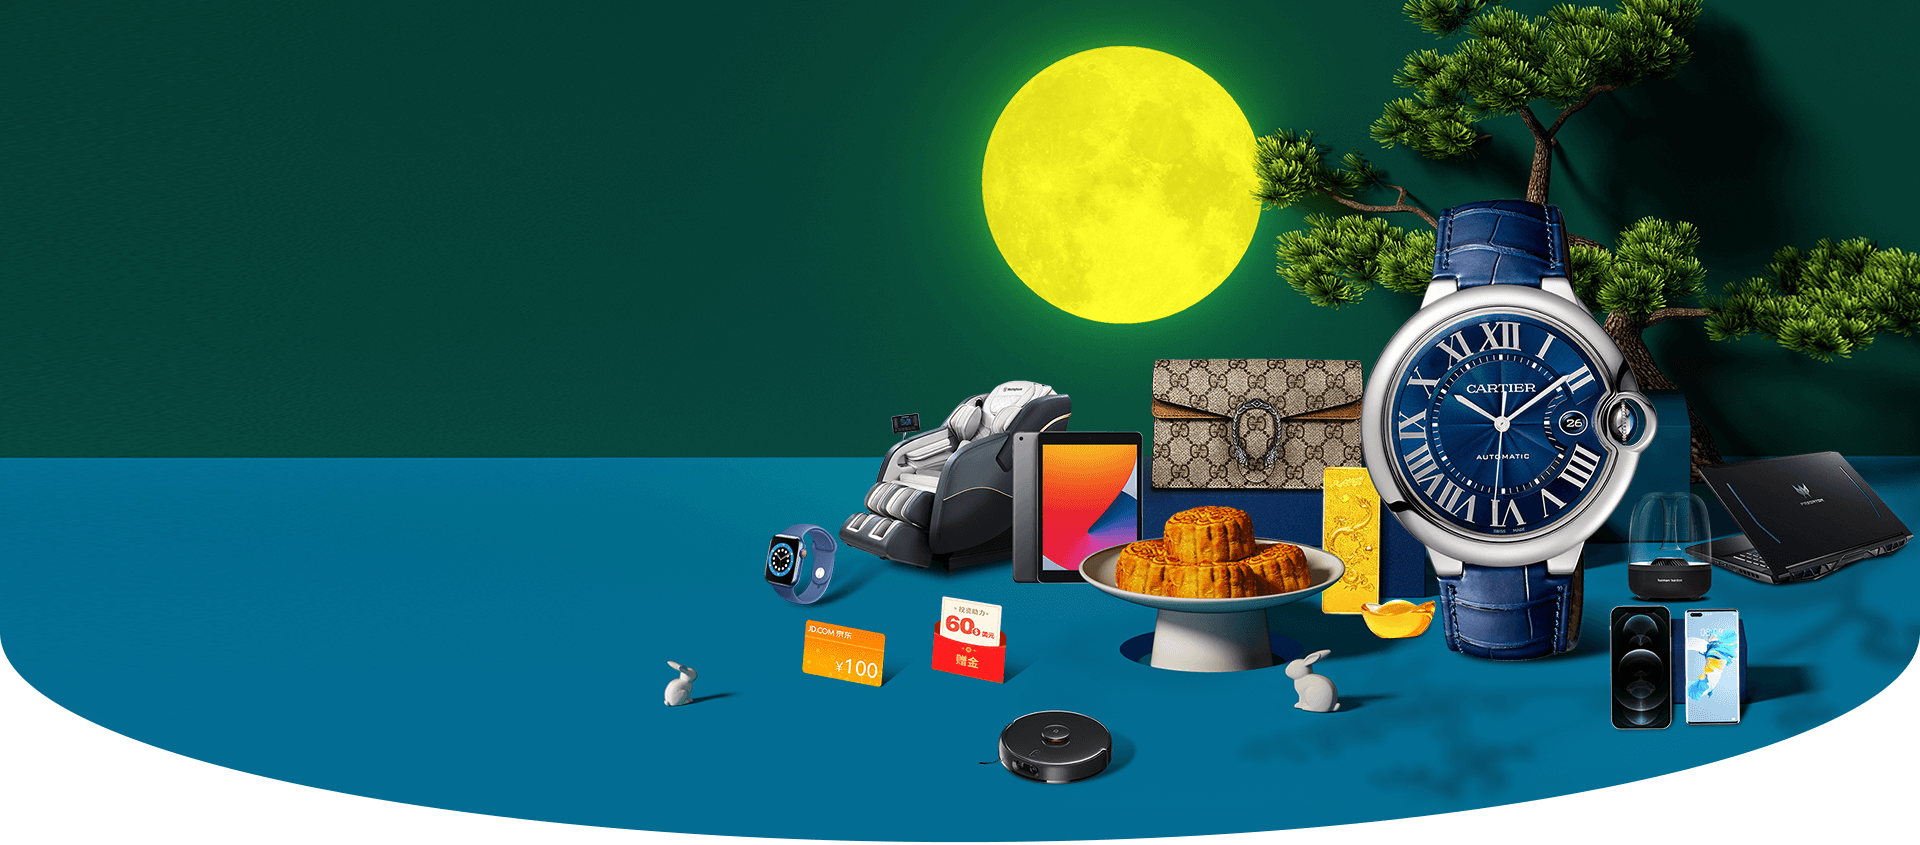
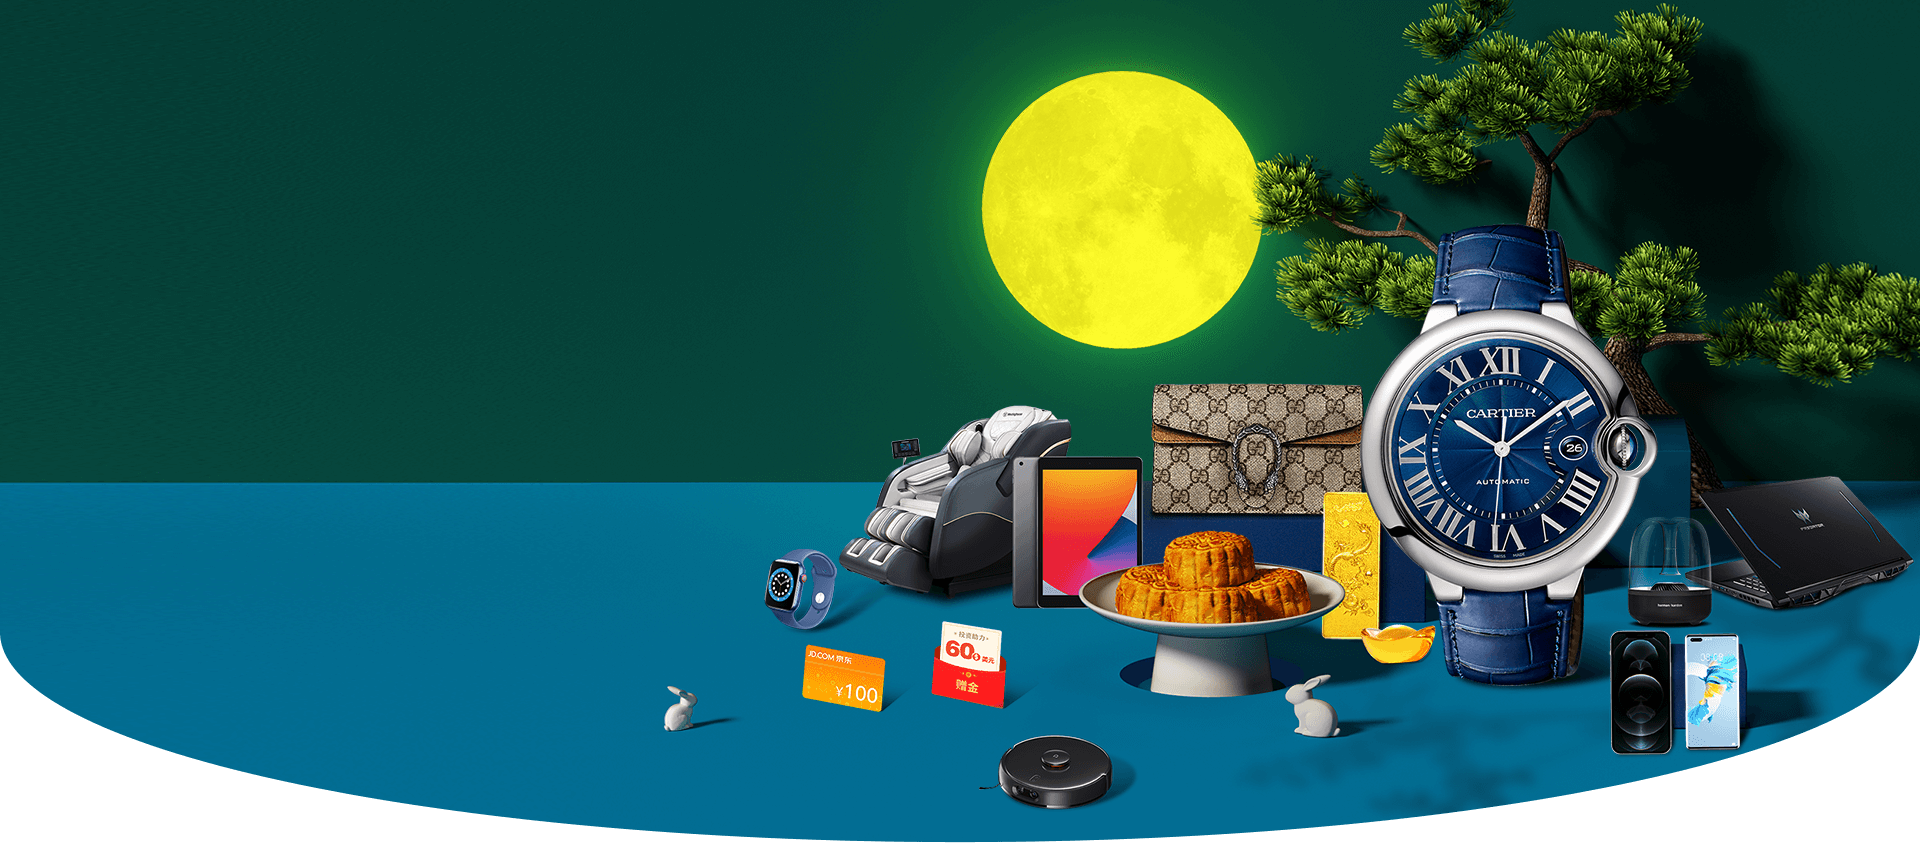
a
a

Changed region(s): [[0.0, 0.0, 1.0, 0.9538], [0.3438, 0.7692, 0.375, 0.8615], [0.75, 0.8923, 0.7812, 0.9231]]

diff --git a/assets/css/main.css b/assets/css/main.css
@@ -105,7 +105,7 @@ a:hover {
     background-size: auto 100%;
     position: relative;
     box-sizing: border-box;
-    padding: 140px 0 0 0;
+    padding: 100px 0 0 0;
     perspective: 200px;
     overflow: hidden;
 }
